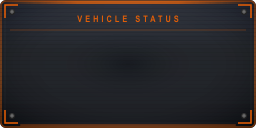
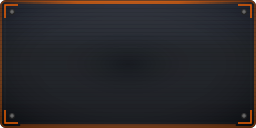
several fixes

Changed region(s): [[0.0312, 0.2188, 0.9688, 0.25], [0.5312, 0.0938, 0.7188, 0.1875], [0.2812, 0.0938, 0.5, 0.1875]]

diff --git a/engine/code/cgame/cg_rally_hud2.c b/engine/code/cgame/cg_rally_hud2.c
@@ -517,8 +517,8 @@ static void CG_DrawHUD_DerbyVehicleState( void ) {
 		return;
 	}
 
-	/* ensure stable 2D anchor independent from previous HUD passes */
-	CG_SetScreenPlacement( PLACE_LEFT, PLACE_TOP );
+	/* bottom-left, matching CG_DrawLowerLeft */
+	CG_SetScreenPlacement( PLACE_LEFT, PLACE_BOTTOM );
 
 	healthFrac = health / maxHealth;
 	if ( healthFrac < 0.0f ) {
@@ -527,8 +527,6 @@ static void CG_DrawHUD_DerbyVehicleState( void ) {
 		healthFrac = 1.0f;
 	}
 
-	x = cg_derbyVehicleHudX.value;
-	y = cg_derbyVehicleHudY.value;
 	scale = cg_derbyVehicleHudScale.value;
 	if ( scale < 0.5f ) {
 		scale = 0.5f;
@@ -538,6 +536,11 @@ static void CG_DrawHUD_DerbyVehicleState( void ) {
 
 	panelW = 128.0f * scale;
 	panelH = 96.0f * scale;
+
+	/* bottom-left corner, 8px margin */
+	x = 8.0f;
+	y = 480.0f - panelH - 8.0f;
+
 	barX = x + 8.0f * scale;
 	barY = y + 16.0f * scale;
 	barW = 112.0f * scale;
@@ -586,13 +589,33 @@ static void CG_DrawHUD_DerbyVehicleState( void ) {
 
 	hitSegment = -1;
 	hasDirectionalHit = qfalse;
-	if ( cg.damageTime > 0 && cg.time - cg.damageTime < lastHitFlashMs ) {
-		hasDirectionalHit = qtrue;
-		if ( fabs( cg.damageX ) > fabs( cg.damageY ) ) {
-			hitSegment = cg.damageX > 0.0f ? 1 : 2; /* 1=left, 2=right */
-		} else {
-			hitSegment = cg.damageY > 0.0f ? 0 : 3; /* 0=front, 3=rear */
+	{
+		int curDmg = cg.snap->ps.stats[STAT_DAMAGE_TAKEN];
+		if ( curDmg != cg.derbyLastDamageTaken ) {
+			/* New hit detected - compute direction from velocity vs view yaw */
+			vec3_t forward, right;
+			float fwdDot, rightDot;
+			vec3_t angles;
+
+			VectorSet( angles, 0, cg.snap->ps.viewangles[YAW], 0 );
+			AngleVectors( angles, forward, right, NULL );
+			fwdDot   = DotProduct( cg.snap->ps.velocity, forward );
+			rightDot = DotProduct( cg.snap->ps.velocity, right );
+
+			cg.derbyHitFxTime   = cg.time;
+			cg.derbyHitFxDamage = curDmg - cg.derbyLastDamageTaken;
+			cg.derbyLastDamageTaken = curDmg;
+
+			if ( fabs( fwdDot ) >= fabs( rightDot ) ) {
+				cg.derbyHitFxDir = ( fwdDot >= 0.0f ) ? 0 : 3; /* 0=front 3=rear */
+			} else {
+				cg.derbyHitFxDir = ( rightDot >= 0.0f ) ? 2 : 1; /* 2=right 1=left */
+			}
 		}
+	}
+	if ( cg.derbyHitFxTime > 0 && cg.time - cg.derbyHitFxTime < lastHitFlashMs ) {
+		hasDirectionalHit = qtrue;
+		hitSegment = cg.derbyHitFxDir;
 	}
 
 	/* Option 1: primary integrity indicator (single health bar) */
@@ -639,7 +662,6 @@ static void CG_DrawHUD_DerbyVehicleState( void ) {
 	}
 
 	CG_DrawTinyStringColor( (int)( x + 8.0f * scale ), (int)( y + 6.0f * scale ), "INTEGRITY", colorWhite );
-	CG_DrawTinyStringColor( (int)( x + 8.0f * scale ), (int)( y + 82.0f * scale ), va("HP %3i%%", (int)(healthFrac * 100.0f)), colorWhite );
 
 	if ( critical ) {
 		float pulse = (float)( cg.time % 1000 ) * 0.001f;

diff --git a/engine/code/game/g_combat.c b/engine/code/game/g_combat.c
@@ -115,8 +115,9 @@ if ( !( self->client->ps.stats[STAT_WEAPONS] & ( 1u << weapon ) ) ) {
 */
 
 //	if ( weapon > WP_MACHINEGUN && weapon != WP_GRAPPLING_HOOK && 
-	if ( weapon >= WP_MACHINEGUN && 
+	if ( weapon >= WP_MACHINEGUN &&
 // END
+		weapon != WP_DERBY_RAM &&
 		self->client->ps.ammo[ weapon ] ) {
 		// find the item type for this weapon
 		item = BG_FindItemForWeapon( weapon );
@@ -128,7 +129,7 @@ if ( !( self->client->ps.stats[STAT_WEAPONS] & ( 1u << weapon ) ) ) {
 	// drop all the powerups if not in teamplay
 	if ( g_gametype.integer != GT_TEAM ) {
 		angle = 45;
-		for ( i = 1 ; i < PW_NUM_POWERUPS ; i++ ) {
+		for ( i = 1 ; i < PW_NUM_POWERUPS && i < MAX_POWERUPS ; i++ ) {
 			if ( self->client->ps.powerups[ i ] > level.time ) {
 				item = BG_FindItemForPowerup( i );
 				if ( !item ) {

diff --git a/engine/code/q3_ui/ui_rally_startserver.c b/engine/code/q3_ui/ui_rally_startserver.c
@@ -863,6 +863,7 @@ typedef struct {
 	qboolean			newBot;
 	int					newBotIndex;
 	char				newBotName[16];
+
 } serveroptions_t;
 
 static serveroptions_t s_serveroptions;
@@ -1993,6 +1994,7 @@ if (s_serveroptions.gametype == GT_DOMINATION) {
 	if( s_serveroptions.gametype == GT_ELIMINATION ) {
 		Menu_AddItem( &s_serveroptions.menu, &s_serveroptions.eliminationWeapons );
 	}
+
 
 	if( s_serveroptions.gametype == GT_RACING || s_serveroptions.gametype == GT_RACING_DM
 	|| s_serveroptions.gametype == GT_SPRINT || s_serveroptions.gametype == GT_TEAM_RACING || s_serveroptions.gametype == GT_TEAM_RACING_DM) {

diff --git a/engine/code/cgame/cg_main.c b/engine/code/cgame/cg_main.c
@@ -397,7 +397,7 @@ static cvarTable_t cvarTable[] = {
 	{ &cg_derbyHitOverlayScale, "cg_derbyHitOverlayScale", "1.6", CVAR_ARCHIVE },
 	{ &cg_derbyHitOverlayTime, "cg_derbyHitOverlayTime", "360", CVAR_ARCHIVE },
 	{ &cg_derbyVehicleHudX, "cg_derbyVehicleHudX", "8", CVAR_ARCHIVE },
-	{ &cg_derbyVehicleHudY, "cg_derbyVehicleHudY", "376", CVAR_ARCHIVE },
+	{ &cg_derbyVehicleHudY, "cg_derbyVehicleHudY", "24", 0 },
 	{ &cg_derbyVehicleHudScale, "cg_derbyVehicleHudScale", "1.0", CVAR_ARCHIVE },
 	{ &cg_derbyVehicleHudRoof, "cg_derbyVehicleHudRoof", "1", CVAR_ARCHIVE },
 

diff --git a/engine/code/cgame/cg_draw.c b/engine/code/cgame/cg_draw.c
@@ -2031,6 +2031,11 @@ static void CG_DrawLowerLeft( void ) {
 		y = CG_DrawTeamOverlay( y, qfalse, qfalse );
 	} 
 
+	/* Derby: vehicle state panel sits at bottom-left (y=376);
+	   move pickup overlay above it so they don't overlap. */
+	if ( cgs.gametype == GT_DERBY && y > 376 ) {
+		y = 376;
+	}
 
 	CG_DrawPickupItem( y );
 }
@@ -3143,7 +3148,6 @@ static qboolean CG_DrawScoreboard( void ) {
 }
 
 /*
-===================
 CG_DrawIntermission
 ===================
 */

diff --git a/engine/code/game/g_main.c b/engine/code/game/g_main.c
@@ -1934,13 +1934,12 @@ void QDECL G_DebugLogPrintf( const char *fmt, ... ) {
 }
 // END
 
-
 /*
-================
+==================================================
 LogExit
 
 Append information about this game to the log file
-================
+==================================================
 */
 void LogExit( const char *string ) {
 	int				i, numSorted;

diff --git a/engine/code/game/g_rally_scripted_objects.c b/engine/code/game/g_rally_scripted_objects.c
@@ -305,8 +305,6 @@ void G_ScriptedObject_Touch ( gentity_t *self, gentity_t *other, trace_t *trace 
 }
 
 void G_ScriptedObject_Think ( gentity_t *self ){
-	float time = ( level.time - self->updateTime ) / 1000.0f;
-
 	/* Apply gravity as default force */
 	VectorSet( self->netForce, 0, 0, -CP_CURRENT_GRAVITY * self->mass );
 	VectorClear( self->netMoment );

diff --git a/engine/code/cgame/cg_local.h b/engine/code/cgame/cg_local.h
@@ -829,6 +829,8 @@ typedef struct {
 	int			derbyHitFxTime;
 	int			derbyHitFxLevel;
 	int			derbyHitFxDamage;
+	int			derbyHitFxDir;		/* 0=front 1=left 2=right 3=rear */
+	int			derbyLastDamageTaken;	/* previous STAT_DAMAGE_TAKEN for delta detection */
 
 	// status bar head
 	float		headYaw;
